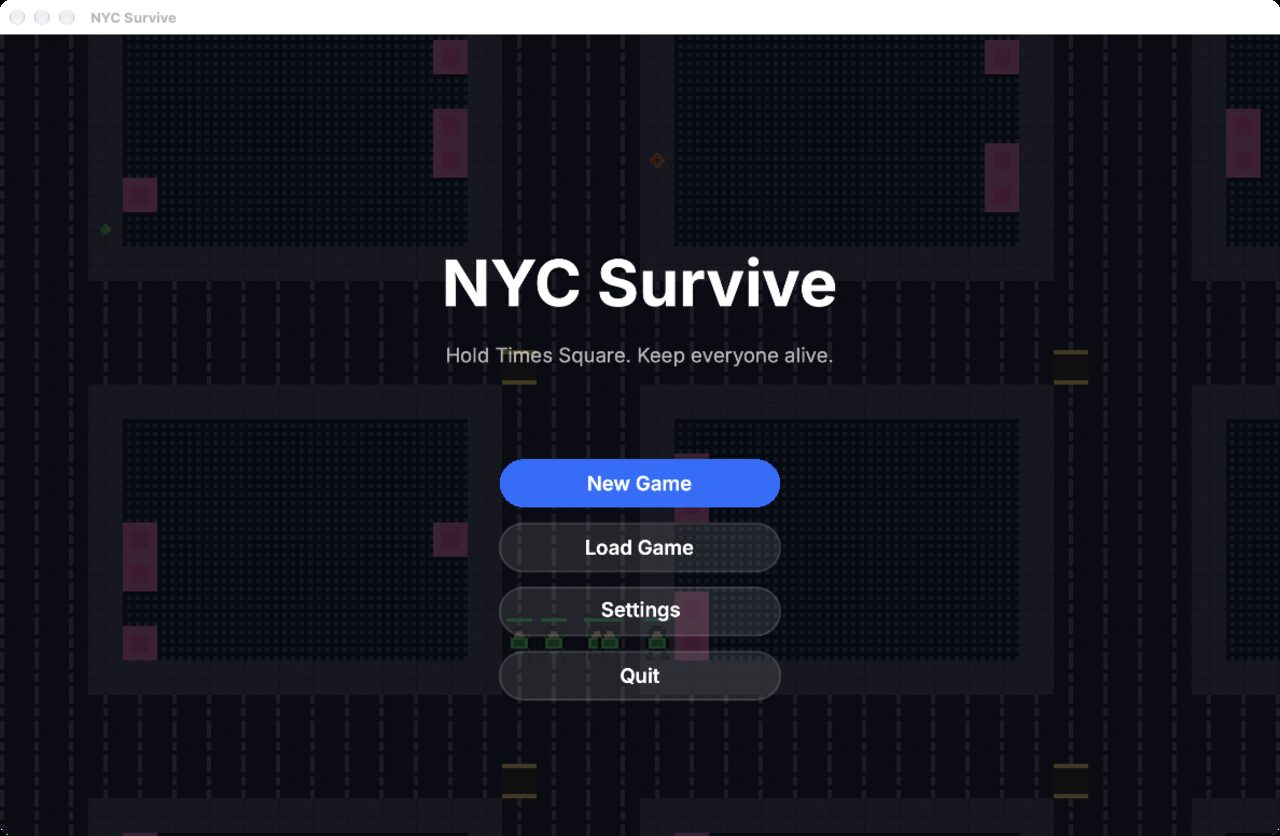
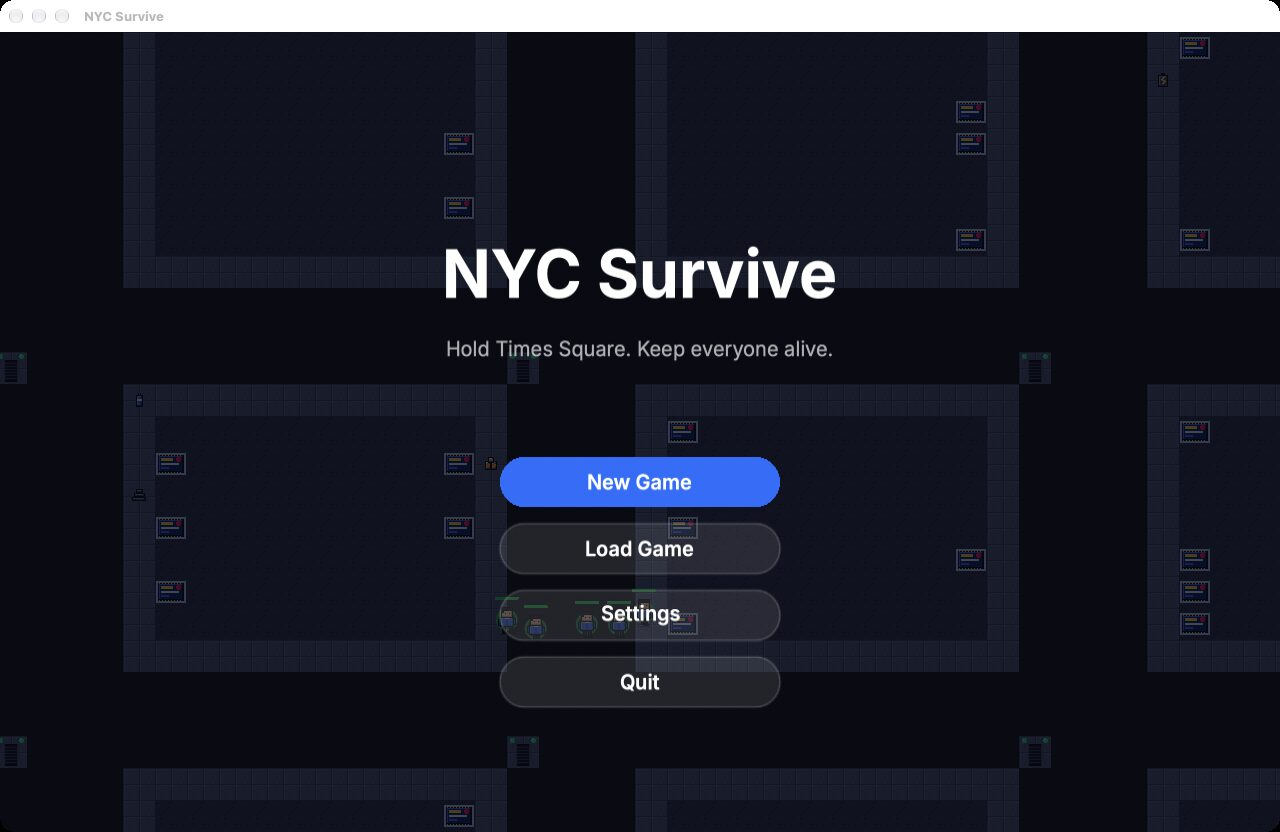
README: screenshots with the new sprites
Claude-Session: https://claude.ai/code/session_011bWFSZGLVVgqKz4mqDrLmx

diff --git a/README.md b/README.md
@@ -10,7 +10,7 @@ NYC Survive is a colony survival game. You run a small group of survivors in the
 
 <img src="screenshots/nyc-2.jpg" width="600" alt="NYC Survive: survivors, two shelters and the build menu">
 
-<img src="screenshots/nyc-1.jpg" width="296" alt="Title menu over the live city"> <img src="screenshots/nyc-3.jpg" width="296" alt="Times Square reclaimed">
+<img src="screenshots/nyc-1.jpg" width="600" alt="Title menu over the live city">
 
 ## Features
 
